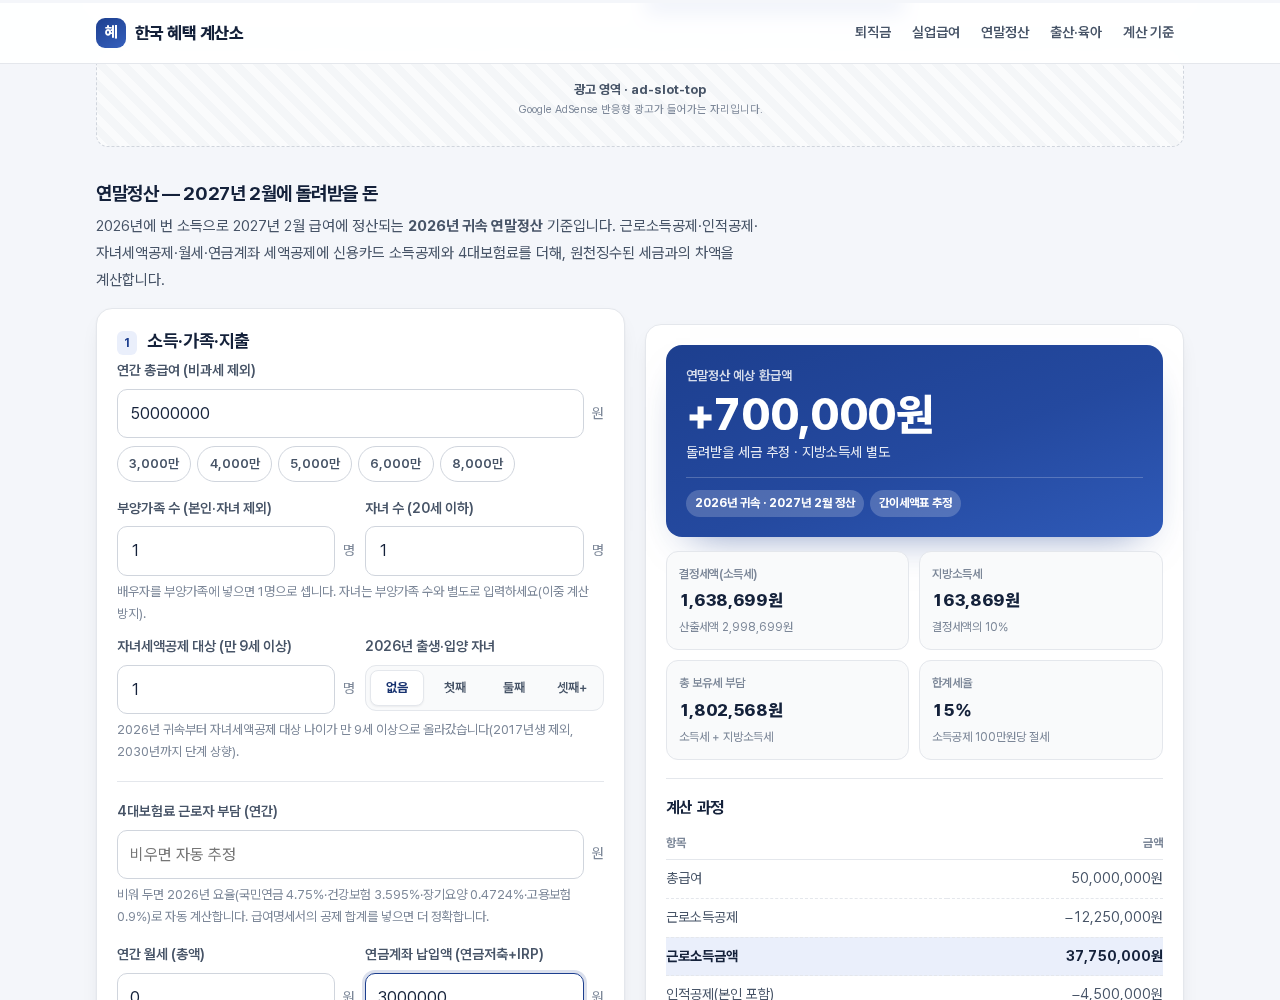
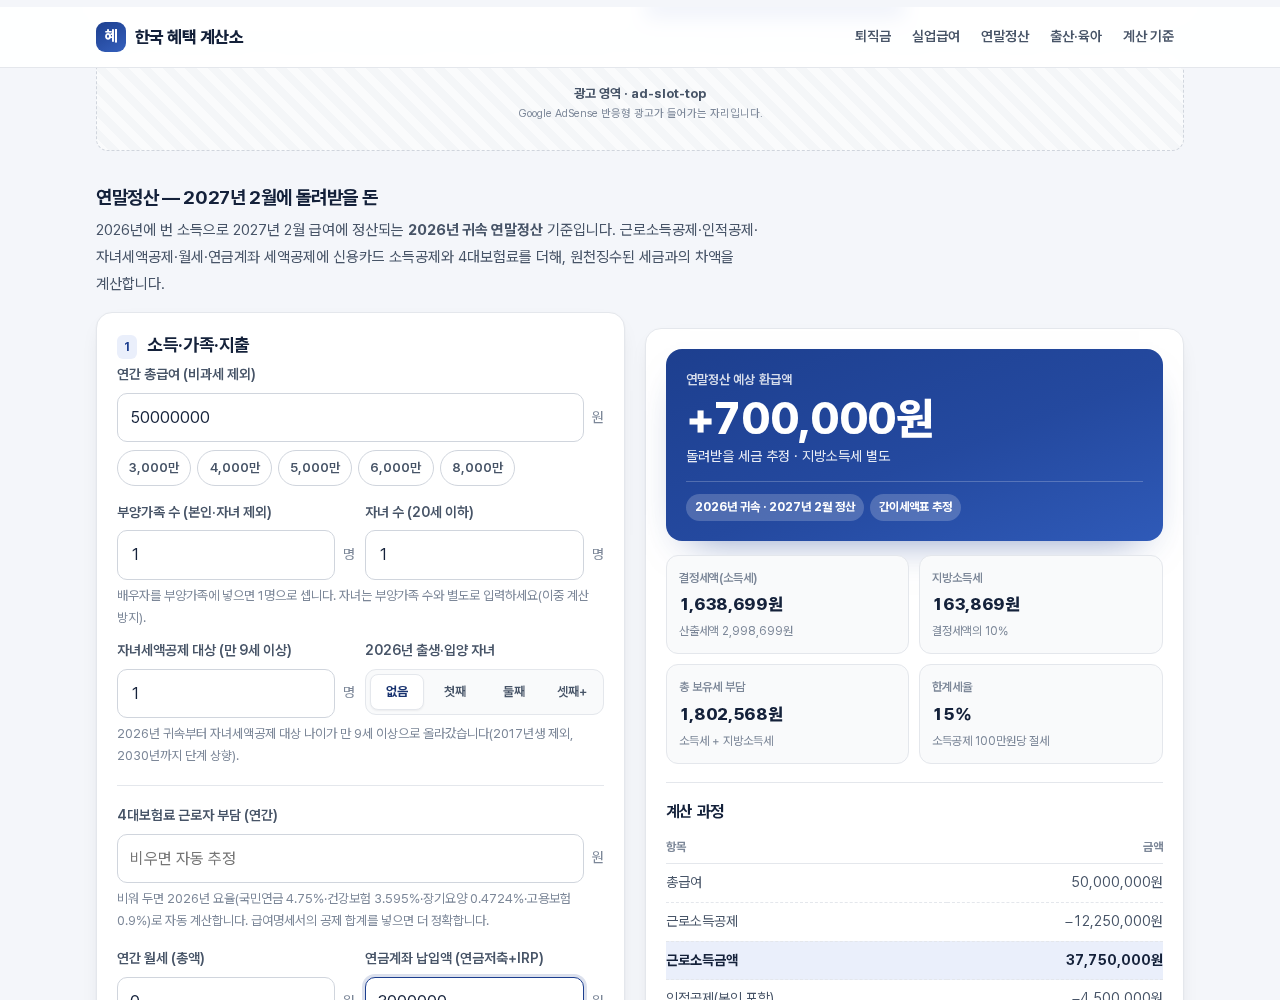
feat: 네이버 쇼핑 커넥트 제휴 3종 추가 (기저귀·카시트·분유)

diff --git a/index.html b/index.html
@@ -1115,7 +1115,39 @@
         </a>
       </div>
 
-      <p class="picks-disclosure">[광고] 이 포스팅은 쿠팡 파트너스 활동의 일환으로, 이에 따른 일정액의 수수료를 제공받습니다.</p>
+      <p class="picks-disclosure">[광고] 이 포스팅은 쿠팡 파트너스 활동의 일환으로, 이에 따른 일정액의 수수료를 제공받습니다. 네이버 쇼핑 커넥트 링크를 통한 구매에도 일정액의 수수료가 발생할 수 있습니다.</p>
+
+      <div class="picks-group" id="picks-naver">
+        <h3 class="picks-sub">네이버 쇼핑 커넥트에서 다시 본 3종</h3>
+        <p class="picks-sub-note">기저귀·분유처럼 계속 사야 하는 것과, 한 번 사면 오래 쓰는 카시트는 가격이 자주 바뀝니다. 쿠팡 링크와 같이 놓고 네이버 쪽 가격도 비교해 두었습니다. 표시 가격은 확인 시점 기준입니다.</p>
+
+        <div class="picks-grid picks-grid-3">
+          <a class="pick" href="https://naver.me/FTdeMXm5" target="_blank" rel="sponsored noopener noreferrer">
+            <span class="pick-tag">기저귀</span>
+            <span class="pick-name">몰텍스 밴드형 통잠 기저귀 4단계 174매</span>
+            <span class="pick-why">밤중 교체를 줄이는 통잠형. 4단계부터는 대용량 묶음이 단가가 낮습니다.</span>
+            <span class="pick-price">110,880원 <span class="pick-was">158,400원</span></span>
+            <span class="pick-go">네이버에서 보기 <span aria-hidden="true">↗</span></span>
+          </a>
+
+          <a class="pick" href="https://naver.me/GVVdEMR6" target="_blank" rel="sponsored noopener noreferrer">
+            <span class="pick-tag">카시트</span>
+            <span class="pick-name">토드비 벨럽 V90 아이사이즈 360 회전형 카시트</span>
+            <span class="pick-why">신생아부터 쓰는 회전형. 차에 태울 때 허리를 덜 굽히게 해 줍니다.</span>
+            <span class="pick-price">450,000원 <span class="pick-was">690,000원</span></span>
+            <span class="pick-go">네이버에서 보기 <span aria-hidden="true">↗</span></span>
+          </a>
+
+          <a class="pick" href="https://naver.me/FIcmNpQe" target="_blank" rel="sponsored noopener noreferrer">
+            <span class="pick-tag">분유</span>
+            <span class="pick-name">일동후디스 산양분유 시그니처 1단계 800g 6개</span>
+            <span class="pick-why">1단계는 소비가 빨라 6개 묶음이 낫습니다. 개봉 전 유통기한을 확인하세요.</span>
+            <span class="pick-price">335,400원</span>
+            <span class="pick-go">네이버에서 보기 <span aria-hidden="true">↗</span></span>
+          </a>
+        </div>
+      </div>
+
     </section>
   </div>
 
